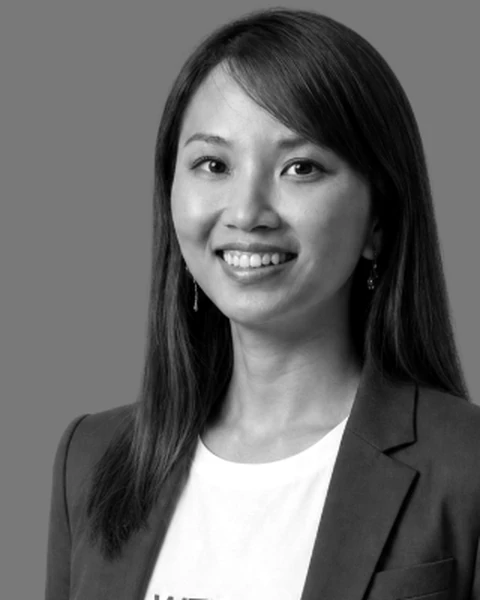
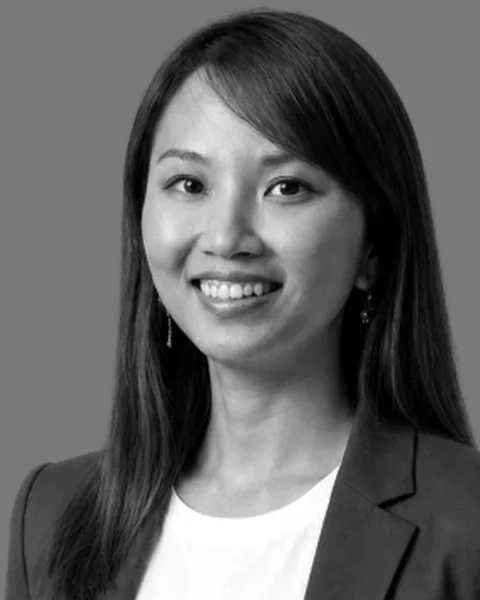
ID card: centred portrait crop + WebKit-safe flip
portrait-bust.webp replaced with a centred re-crop (same 480x600). WebKit was
painting the mirrored back face over the front at rest, so the faces now also
swap visibility at the flip midpoint. Front shows at rest; flip still works.

diff --git a/assets/css/portfolio.css b/assets/css/portfolio.css
@@ -158,6 +158,11 @@ body.is-locked{overflow:hidden}
 .idcard__face{position:absolute;inset:0;border-radius:22px;background:var(--card);box-shadow:var(--hair),0 40px 70px -30px rgba(15,42,32,.35),0 14px 28px -16px rgba(15,42,32,.2);backface-visibility:hidden;-webkit-backface-visibility:hidden;overflow:hidden;display:flex;flex-direction:column}
 .idcard__face::before{content:"";position:absolute;top:10px;left:50%;width:46px;height:8px;margin-left:-23px;border-radius:999px;background:var(--paper);box-shadow:inset 0 1px 2px rgba(0,0,0,.25);z-index:2}
 .idcard__back{transform:rotateY(180deg)}
+/* WebKit fallback: some Safari paths ignore backface-visibility inside the swinging lanyard and paint the mirrored back on top.
+   Swap face visibility at the flip midpoint (card edge-on) so the right face shows whatever the renderer does. */
+.idcard__front,.idcard__back{transition:visibility 0s .45s}
+.idcard__back,.idcard.is-flipped .idcard__front{visibility:hidden}
+.idcard.is-flipped .idcard__back{visibility:visible}
 .id__band{background:var(--deep);color:var(--paper);font:600 11px/1 var(--mono);letter-spacing:.22em;padding:28px 20px 14px;display:flex;justify-content:space-between}
 .id__band i{font-style:normal;color:rgba(255,255,255,.5)}
 .id__photo{position:relative;width:128px;height:156px;margin:18px auto 0;border-radius:16px;padding:3px;background:linear-gradient(160deg,#d9d6d0,#7d7a74 55%,#cfccc6)}
